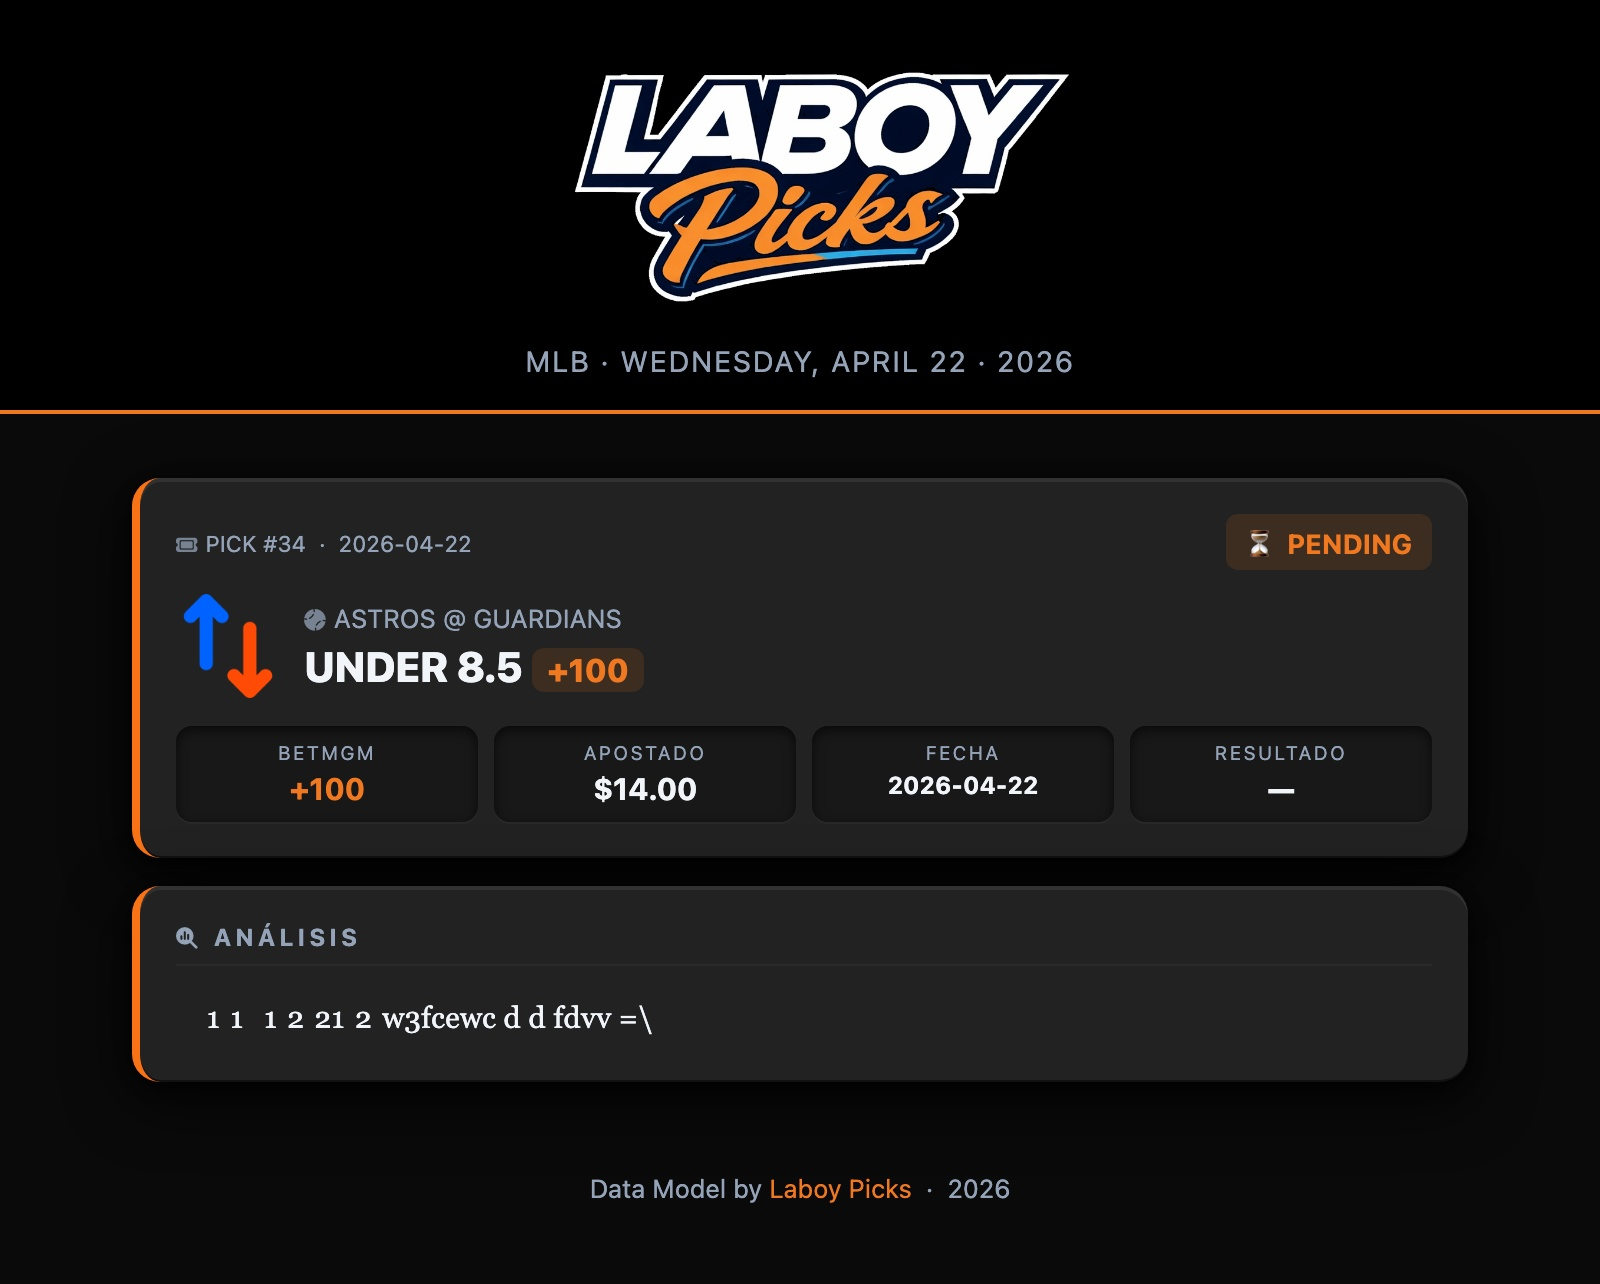
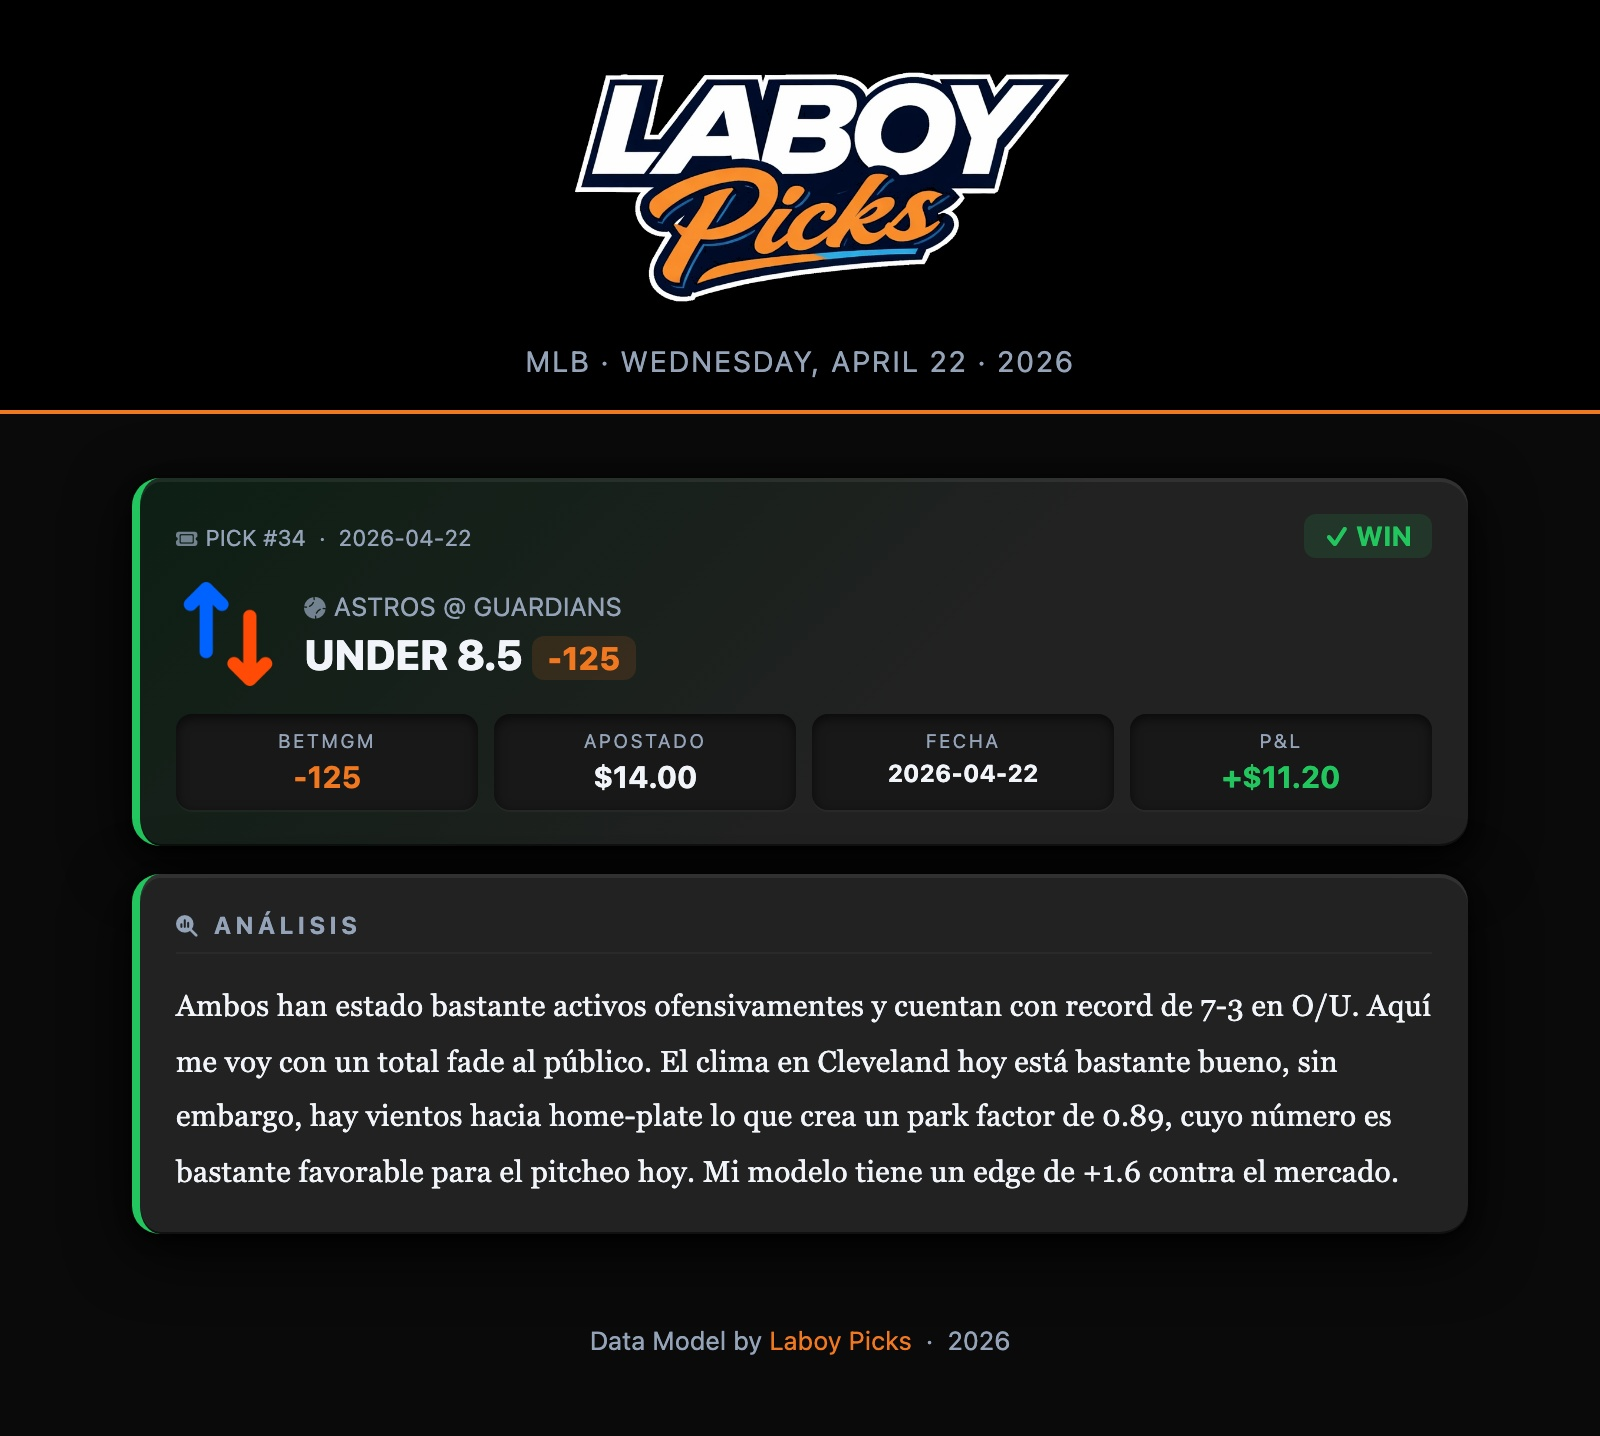
📊 MLB 2026-04-22 — Laboy Picks 2026-04-22-504f8c7.html

diff --git a/Laboy Picks 2026-04-22-504f8c7.html b/Laboy Picks 2026-04-22-504f8c7.html
@@ -60,144 +60,7 @@
   <div class="date">MLB · WEDNESDAY, APRIL 22 · 2026</div>
 </div>
 <div class="section">
-<div class="section-title"><i class="fa-solid fa-bullseye fa-icon"></i>Picks EV+ del Modelo</div>
-
-            <div class="pick-card" style="border-left:4px solid #C41E3A">
-              <div class="pick-time">12:10 PM AST</div>
-              <div class="teams-row">
-                <img src="https://a.espncdn.com/combiner/i?img=/i/teamlogos/mlb/500/stl.png&w=80&h=80&scale=crop&cquality=40" alt="CARDINALS" width="52" height="52" style="object-fit:contain" onerror="this.style.display='none'">
-                <div class="pick-main">
-                  <div class="game-label">CARDINALS @ MARLINS</div>
-                  <div class="pick-label">CARDINALS ML <span class="odds-badge">+124</span></div>
-                </div>
-              </div>
-              <div class="stats-grid">
-                <div class="stat"><div class="stat-label">Modelo</div><div class="stat-val">58.3%</div></div>
-                <div class="stat"><div class="stat-label">Mercado</div><div class="stat-val">+124</div></div>
-                <div class="stat"><div class="stat-label">Edge</div><div class="stat-val" style="color:#22c55e">+14.5%</div></div>
-                <div class="stat"><div class="stat-label">EV</div><div class="stat-val" style="color:#22c55e">+30.6%</div></div>
-              </div>
-              
-            </div>
-            <div class="pick-card" style="border-left:4px solid #002D62">
-              <div class="pick-time">1:10 PM AST</div>
-              <div class="teams-row">
-                <img src="https://a.espncdn.com/combiner/i?img=/i/teamlogos/mlb/500/hou.png&w=80&h=80&scale=crop&cquality=40" alt="ASTROS" width="52" height="52" style="object-fit:contain" onerror="this.style.display='none'">
-                <div class="pick-main">
-                  <div class="game-label">ASTROS @ GUARDIANS</div>
-                  <div class="pick-label">ASTROS ML <span class="odds-badge">+136</span></div>
-                </div>
-              </div>
-              <div class="stats-grid">
-                <div class="stat"><div class="stat-label">Modelo</div><div class="stat-val">68.8%</div></div>
-                <div class="stat"><div class="stat-label">Mercado</div><div class="stat-val">+136</div></div>
-                <div class="stat"><div class="stat-label">Edge</div><div class="stat-val" style="color:#22c55e">+27.3%</div></div>
-                <div class="stat"><div class="stat-label">EV</div><div class="stat-val" style="color:#22c55e">+62.4%</div></div>
-              </div>
-              
-            </div>
-            <div class="pick-card" style="border-left:4px solid #f97316">
-              <div class="pick-time">1:10 PM AST</div>
-              <div class="teams-row">
[1 lines of base64/hex data omitted]
-                <div class="pick-main">
-                  <div class="game-label">ASTROS @ GUARDIANS</div>
-                  <div class="pick-label">Under 8.0 <span class="odds-badge">+100</span></div>
-                </div>
-              </div>
-              <div class="stats-grid">
-                <div class="stat"><div class="stat-label">Modelo</div><div class="stat-val">Proj 6.3</div></div>
-                <div class="stat"><div class="stat-label">Mercado</div><div class="stat-val">Line 8.0</div></div>
-                <div class="stat"><div class="stat-label">Edge</div><div class="stat-val" style="color:#22c55e">+1.7</div></div>
-                <div class="stat"><div class="stat-label">EV</div><div class="stat-val" style="color:#22c55e">+37.3%</div></div>
-              </div>
-              
-            </div>
-            <div class="pick-card" style="border-left:4px solid #DF4601">
-              <div class="pick-time">2:10 PM AST</div>
-              <div class="teams-row">
-                <img src="https://a.espncdn.com/combiner/i?img=/i/teamlogos/mlb/500/bal.png&w=80&h=80&scale=crop&cquality=40" alt="ORIOLES" width="52" height="52" style="object-fit:contain" onerror="this.style.display='none'">
-                <div class="pick-main">
-                  <div class="game-label">ORIOLES @ ROYALS</div>
-                  <div class="pick-label">ORIOLES ML <span class="odds-badge">+119</span></div>
-                </div>
-              </div>
-              <div class="stats-grid">
-                <div class="stat"><div class="stat-label">Modelo</div><div class="stat-val">57.8%</div></div>
-                <div class="stat"><div class="stat-label">Mercado</div><div class="stat-val">+119</div></div>
-                <div class="stat"><div class="stat-label">Edge</div><div class="stat-val" style="color:#22c55e">+13.0%</div></div>
-                <div class="stat"><div class="stat-label">EV</div><div class="stat-val" style="color:#22c55e">+26.6%</div></div>
-              </div>
-              
-            </div>
-            <div class="pick-card" style="border-left:4px solid #134A8E">
-              <div class="pick-time">3:07 PM AST</div>
-              <div class="teams-row">
-                <img src="https://a.espncdn.com/combiner/i?img=/i/teamlogos/mlb/500/tor.png&w=80&h=80&scale=crop&cquality=40" alt="BLUE JAYS" width="52" height="52" style="object-fit:contain" onerror="this.style.display='none'">
-                <div class="pick-main">
-                  <div class="game-label">BLUE JAYS @ ANGELS</div>
-                  <div class="pick-label">BLUE JAYS ML <span class="odds-badge">+133</span></div>
-                </div>
-              </div>
-              <div class="stats-grid">
-                <div class="stat"><div class="stat-label">Modelo</div><div class="stat-val">53.4%</div></div>
-                <div class="stat"><div class="stat-label">Mercado</div><div class="stat-val">+133</div></div>
-                <div class="stat"><div class="stat-label">Edge</div><div class="stat-val" style="color:#22c55e">+11.4%</div></div>
-                <div class="stat"><div class="stat-label">EV</div><div class="stat-val" style="color:#22c55e">+24.4%</div></div>
-              </div>
-              
-            </div>
-            <div class="pick-card" style="border-left:4px solid #f97316">
-              <div class="pick-time">6:40 PM AST</div>
-              <div class="teams-row">
[1 lines of base64/hex data omitted]
-                <div class="pick-main">
-                  <div class="game-label">BREWERS @ TIGERS</div>
-                  <div class="pick-label">Over 8.0 <span class="odds-badge">-101</span></div>
-                </div>
-              </div>
-              <div class="stats-grid">
-                <div class="stat"><div class="stat-label">Modelo</div><div class="stat-val">Proj 9.7</div></div>
-                <div class="stat"><div class="stat-label">Mercado</div><div class="stat-val">Line 8.0</div></div>
-                <div class="stat"><div class="stat-label">Edge</div><div class="stat-val" style="color:#22c55e">+1.7</div></div>
-                <div class="stat"><div class="stat-label">EV</div><div class="stat-val" style="color:#22c55e">+36.8%</div></div>
-              </div>
-              
-            </div>
-            <div class="pick-card" style="border-left:4px solid #002B5C">
-              <div class="pick-time">7:10 PM AST</div>
-              <div class="teams-row">
-                <img src="https://a.espncdn.com/combiner/i?img=/i/teamlogos/mlb/500/min.png&w=80&h=80&scale=crop&cquality=40" alt="TWINS" width="52" height="52" style="object-fit:contain" onerror="this.style.display='none'">
-                <div class="pick-main">
-                  <div class="game-label">TWINS @ METS</div>
-                  <div class="pick-label">TWINS ML <span class="odds-badge">+139</span></div>
-                </div>
-              </div>
-              <div class="stats-grid">
-                <div class="stat"><div class="stat-label">Modelo</div><div class="stat-val">56.9%</div></div>
-                <div class="stat"><div class="stat-label">Mercado</div><div class="stat-val">+139</div></div>
-                <div class="stat"><div class="stat-label">Edge</div><div class="stat-val" style="color:#22c55e">+15.9%</div></div>
-                <div class="stat"><div class="stat-label">EV</div><div class="stat-val" style="color:#22c55e">+36.0%</div></div>
-              </div>
-              
-            </div>
-            <div class="pick-card" style="border-left:4px solid #f97316">
-              <div class="pick-time">8:40 PM AST</div>
-              <div class="teams-row">
[1 lines of base64/hex data omitted]
-                <div class="pick-main">
-                  <div class="game-label">PADRES @ ROCKIES</div>
-                  <div class="pick-label">Under 12.0 <span class="odds-badge">-102</span></div>
-                </div>
-              </div>
-              <div class="stats-grid">
-                <div class="stat"><div class="stat-label">Modelo</div><div class="stat-val">Proj 10.7</div></div>
-                <div class="stat"><div class="stat-label">Mercado</div><div class="stat-val">Line 12.0</div></div>
-                <div class="stat"><div class="stat-label">Edge</div><div class="stat-val" style="color:#22c55e">+1.3</div></div>
-                <div class="stat"><div class="stat-label">EV</div><div class="stat-val" style="color:#22c55e">+28.5%</div></div>
-              </div>
-              
-            </div>
+<div class="no-picks">No se encontraron picks EV+ para hoy. Verifica que ODDS_API_KEY esté configurado.</div>
 </div>
 <div class="footer">
   <p>Data Model by <a href="https://instagram.com/laboypicks">Laboy Picks</a> &nbsp;·&nbsp; 2026</p>

diff --git a/dashboard-Lb9x3Kw.html b/dashboard-Lb9x3Kw.html
@@ -55,6 +55,6 @@
 <li><a href="https://laboywebsite-lgtm.github.io/mlb-picks/Laboy%20Record%20Card%202026-04-14-aebbc0f.html" target="_blank">2026-04-14</a></li>
 <li><a href="https://laboywebsite-lgtm.github.io/mlb-picks/Laboy%20Model%20Card%202026-04-14-aebbc0f.html" target="_blank">2026-04-14</a></li>
 </ul>
-  <p class="ts">Actualizado: 2026-04-22 20:05</p>
+  <p class="ts">Actualizado: 2026-04-22 23:49</p>
 </body>
 </html>
